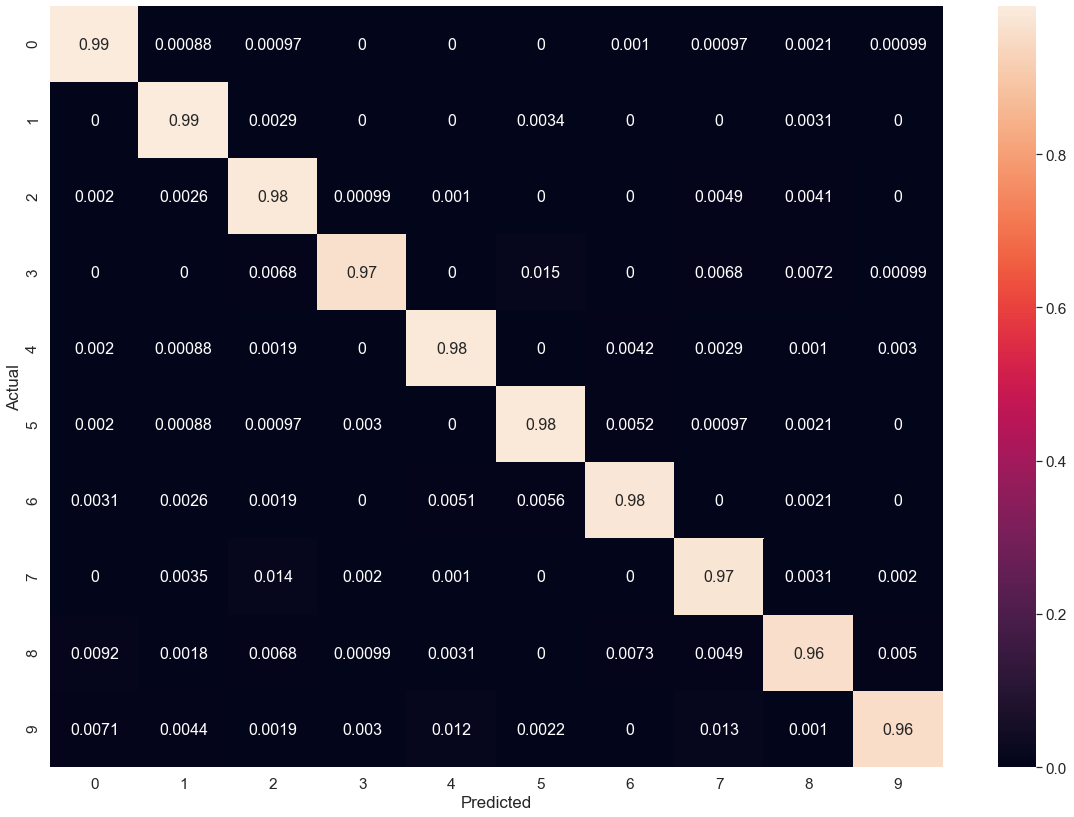
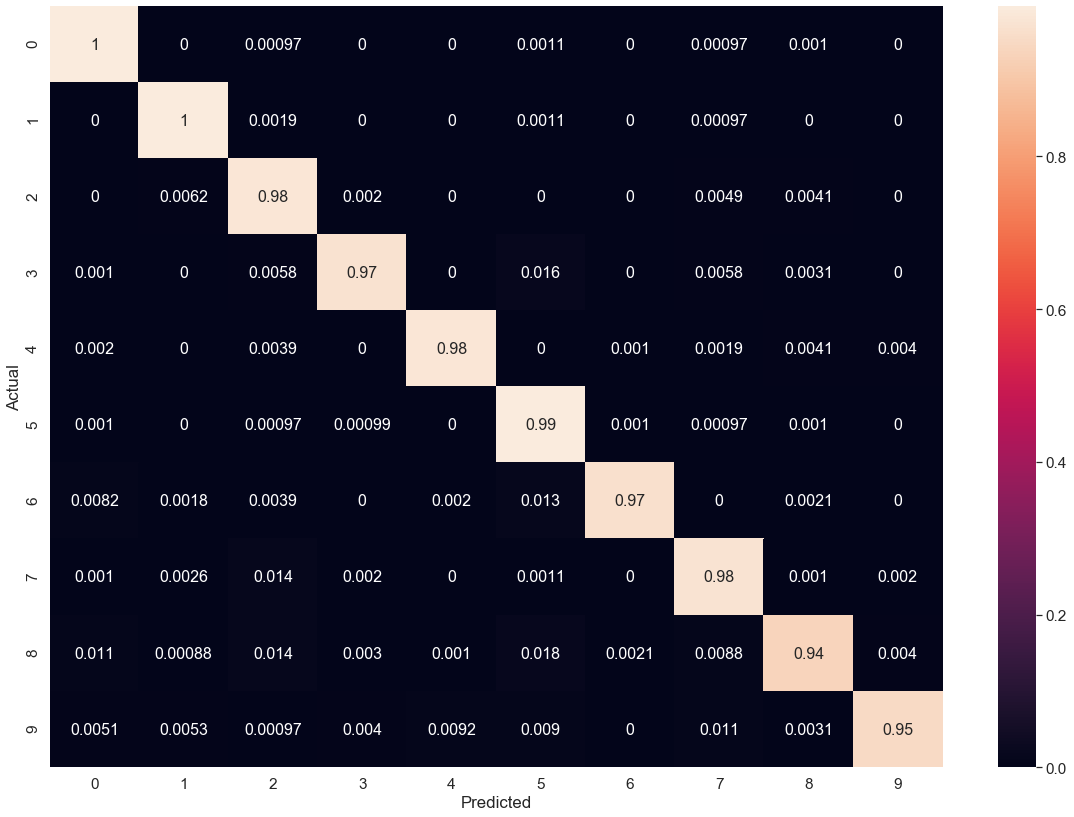
Updated README.md and other images

diff --git a/Digits Classifier/Digits Classifier using a CNN/README.md b/Digits Classifier/Digits Classifier using a CNN/README.md
@@ -5,6 +5,9 @@
 
 ```python
 import tensorflow as tf
+
+from tensorflow.keras import Sequential
+from tensorflow.keras.layers import Conv2D, Dense, Flatten, MaxPool2D
 ```
 
 ## MNIST Dataset
@@ -54,13 +57,13 @@ plt.show()
 
 
 ```python
-tf_model = tf.keras.Sequential()
-tf_model.add(tf.keras.layers.Conv2D(10, activation = 'relu', kernel_size = 3, input_shape = (28, 28, 1)))
-tf_model.add(tf.keras.layers.MaxPool2D(2))
-tf_model.add(tf.keras.layers.Conv2D(5, activation = 'relu', kernel_size = 3))
-tf_model.add(tf.keras.layers.MaxPool2D(2))
-tf_model.add(tf.keras.layers.Flatten())
-tf_model.add(tf.keras.layers.Dense(10, activation = 'softmax'))
+tf_model = Sequential()
+tf_model.add(Conv2D(10, activation = 'relu', kernel_size = 3, input_shape = (28, 28, 1)))
+tf_model.add(MaxPool2D(2))
+tf_model.add(Conv2D(5, activation = 'relu', kernel_size = 3))
+tf_model.add(MaxPool2D(2))
+tf_model.add(Flatten())
+tf_model.add(Dense(10, activation = 'softmax'))
 
 tf_model.compile(optimizer = 'adam', loss = 'categorical_crossentropy', metrics = ['accuracy'])
 ```
@@ -77,7 +80,7 @@ _, tf_model_accuracy = tf_model.evaluate(X_test, y_test, verbose = 0)
 print("accuracy: ", tf_model_accuracy)
 ```
 
-    accuracy:  0.9772
+    accuracy:  0.9759
 
 
 ## Defining a Plotting Function for a Confusion Matrix
